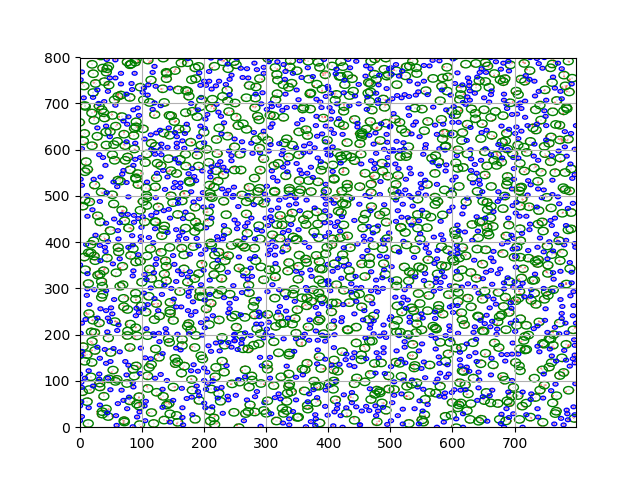
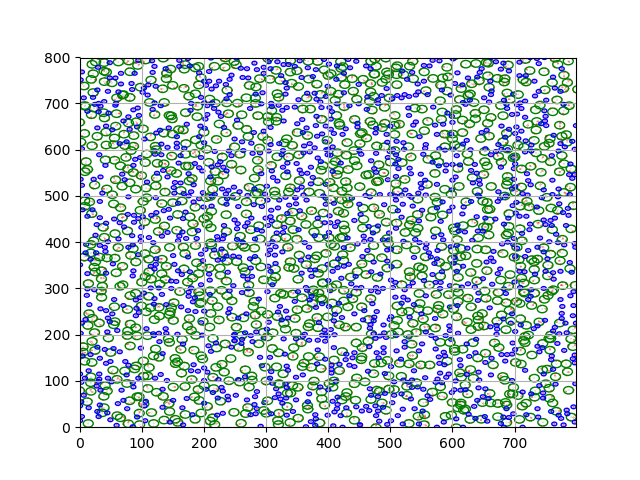
randomly chosen first positions

Changed region(s): [[0.125, 0.125, 0.9062, 0.9062], [0.5625, 0.875, 0.5938, 0.9062], [0.3438, 0.125, 0.375, 0.1562]]

diff --git a/Local_Search_Museum.py b/Local_Search_Museum.py
@@ -42,17 +42,19 @@ class Museum:
         while not self.all_covered(new_positions):
             if not no_more_big_radius:
                 big_radius_remaining = False
-                for (loc1_i, loc1_j), (loc2_i, loc2_j) in combinations(
-                        self.art_not_covered(new_positions),
-                        2):
+                combi = list(combinations(self.art_not_covered(new_positions), 2))
+                len_combi = len(combi)
+                for (loc1_i, loc1_j), (loc2_i, loc2_j) in random.sample(combi, len_combi):
                     if (loc1_i, loc1_j) == (loc2_i, loc2_j):
                         continue
                     sd = (loc1_i - loc2_i) ** 2 + (loc1_j - loc2_j) ** 2  # square distance between loc1 and loc2
                     if sd < self.big_radius ** 2:
                         xa, ya, xb, yb = self.get_circle_centers(loc1_i, loc1_j, loc2_i, loc2_j, self.big_radius)
-                        selected_loc=self.art_not_covered(new_positions)
-                        nb_covered_by_a = self.nb_arts_covered_with_a_cam(xa, ya, self.big_radius, selected_locations=selected_loc)
-                        nb_covered_by_b = self.nb_arts_covered_with_a_cam(xb, yb, self.big_radius, selected_locations=selected_loc)
+                        selected_loc = self.art_not_covered(new_positions)
+                        nb_covered_by_a = self.nb_arts_covered_with_a_cam(xa, ya, self.big_radius,
+                                                                          selected_locations=selected_loc)
+                        nb_covered_by_b = self.nb_arts_covered_with_a_cam(xb, yb, self.big_radius,
+                                                                          selected_locations=selected_loc)
                         if nb_covered_by_a >= nb_covered_by_b:
                             new_positions.append((2, xa, ya))
                         else:
@@ -65,16 +67,19 @@ class Museum:
 
             if no_more_big_radius and not no_more_small_radius:
                 small_radius_remaining = False
-                for (loc1_i, loc1_j), (loc2_i, loc2_j) in combinations(
-                        self.art_not_covered(new_positions), 2):
+                combi = list(combinations(self.art_not_covered(new_positions), 2))
+                len_combi = len(combi)
+                for (loc1_i, loc1_j), (loc2_i, loc2_j) in random.sample(combi, len_combi):
                     sd = (loc1_i - loc2_i) ** 2 + (loc1_j - loc2_j) ** 2  # square distance between loc1 and loc2
                     if (loc1_i, loc1_j) == (loc2_i, loc2_j):
                         continue
                     if sd < self.small_radius ** 2:
                         xa, ya, xb, yb = self.get_circle_centers(loc1_i, loc1_j, loc2_i, loc2_j, self.small_radius)
-                        selected_loc=self.art_not_covered(new_positions)
-                        nb_covered_by_a = self.nb_arts_covered_with_a_cam(xa, ya, self.small_radius, selected_locations=selected_loc)
-                        nb_covered_by_b = self.nb_arts_covered_with_a_cam(xb, yb, self.small_radius, selected_locations=selected_loc)
+                        selected_loc = self.art_not_covered(new_positions)
+                        nb_covered_by_a = self.nb_arts_covered_with_a_cam(xa, ya, self.small_radius,
+                                                                          selected_locations=selected_loc)
+                        nb_covered_by_b = self.nb_arts_covered_with_a_cam(xb, yb, self.small_radius,
+                                                                          selected_locations=selected_loc)
                         if nb_covered_by_a >= nb_covered_by_b:
                             new_positions.append((1, xa, ya))
                         else:
@@ -105,7 +110,7 @@ class Museum:
         res = 0
         sq_radius = radius ** 2
         if selected_locations is None:
-            selected_locations=self.locations
+            selected_locations = self.locations
         for i, j in selected_locations:
             if (x_circle - i) ** 2 + (y_circle - j) ** 2 < sq_radius:
                 res += 1
@@ -220,8 +225,6 @@ class Museum:
         fig.savefig('./museum_problem/plot_sol_1.png')
         print("Optimal value: %f" % self.selection_cost(cam_positions))
         plot.show()
-
-
 
     ###########################################################################################
     ################################ To be refactored #########################################
